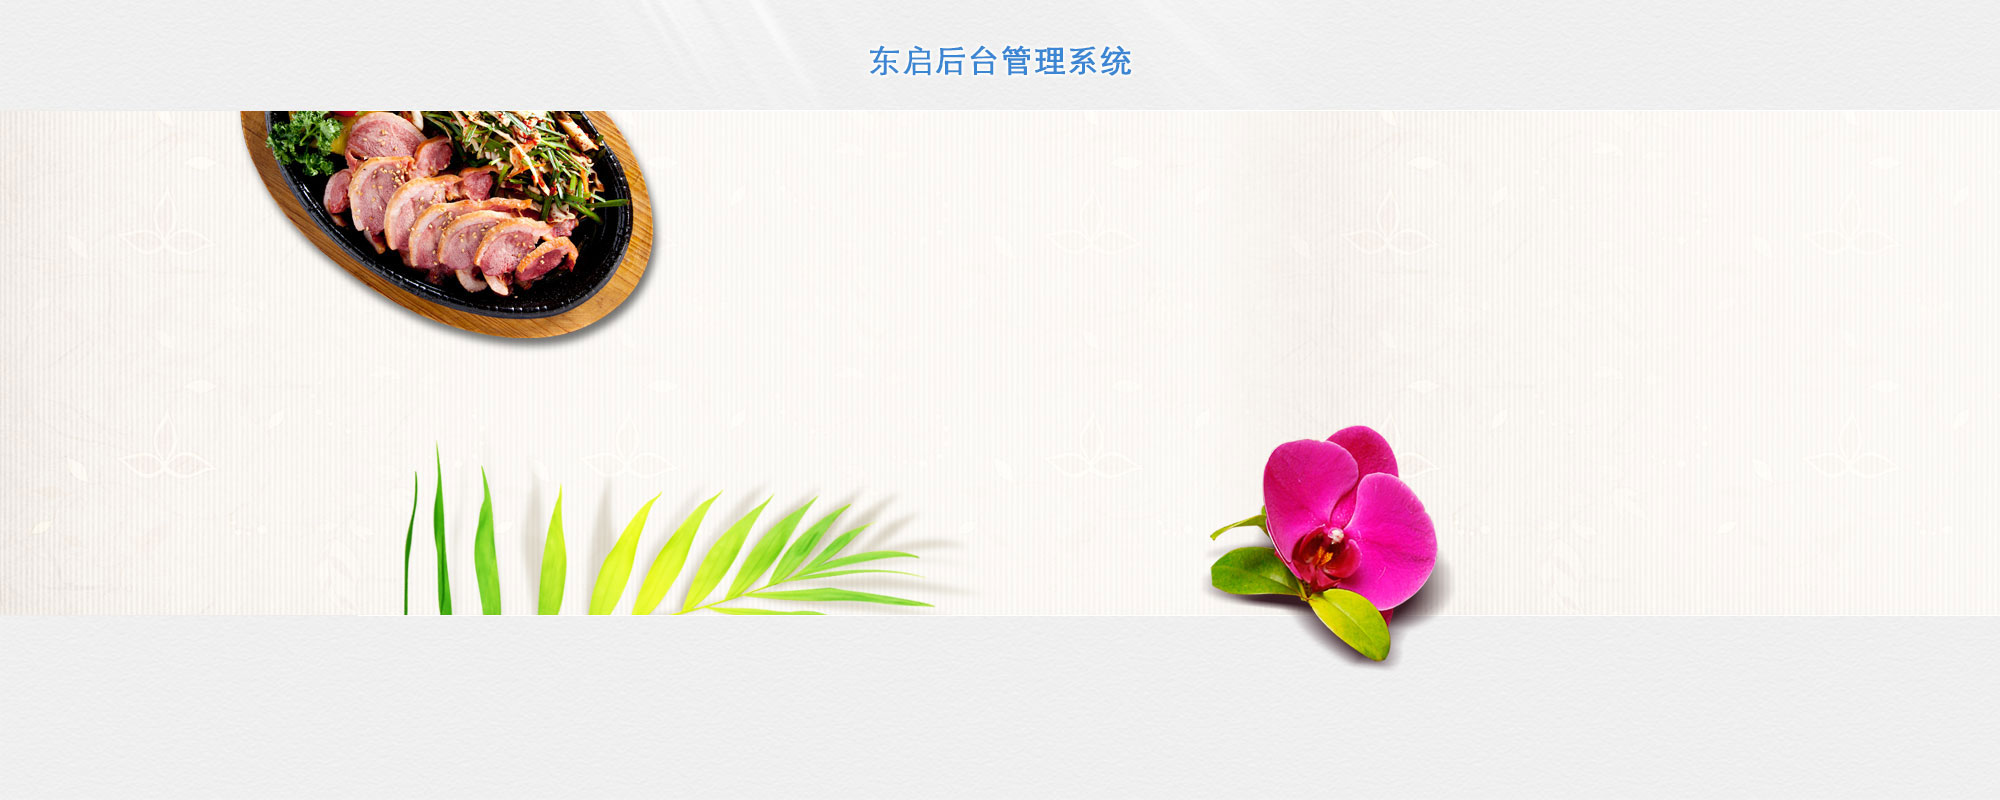
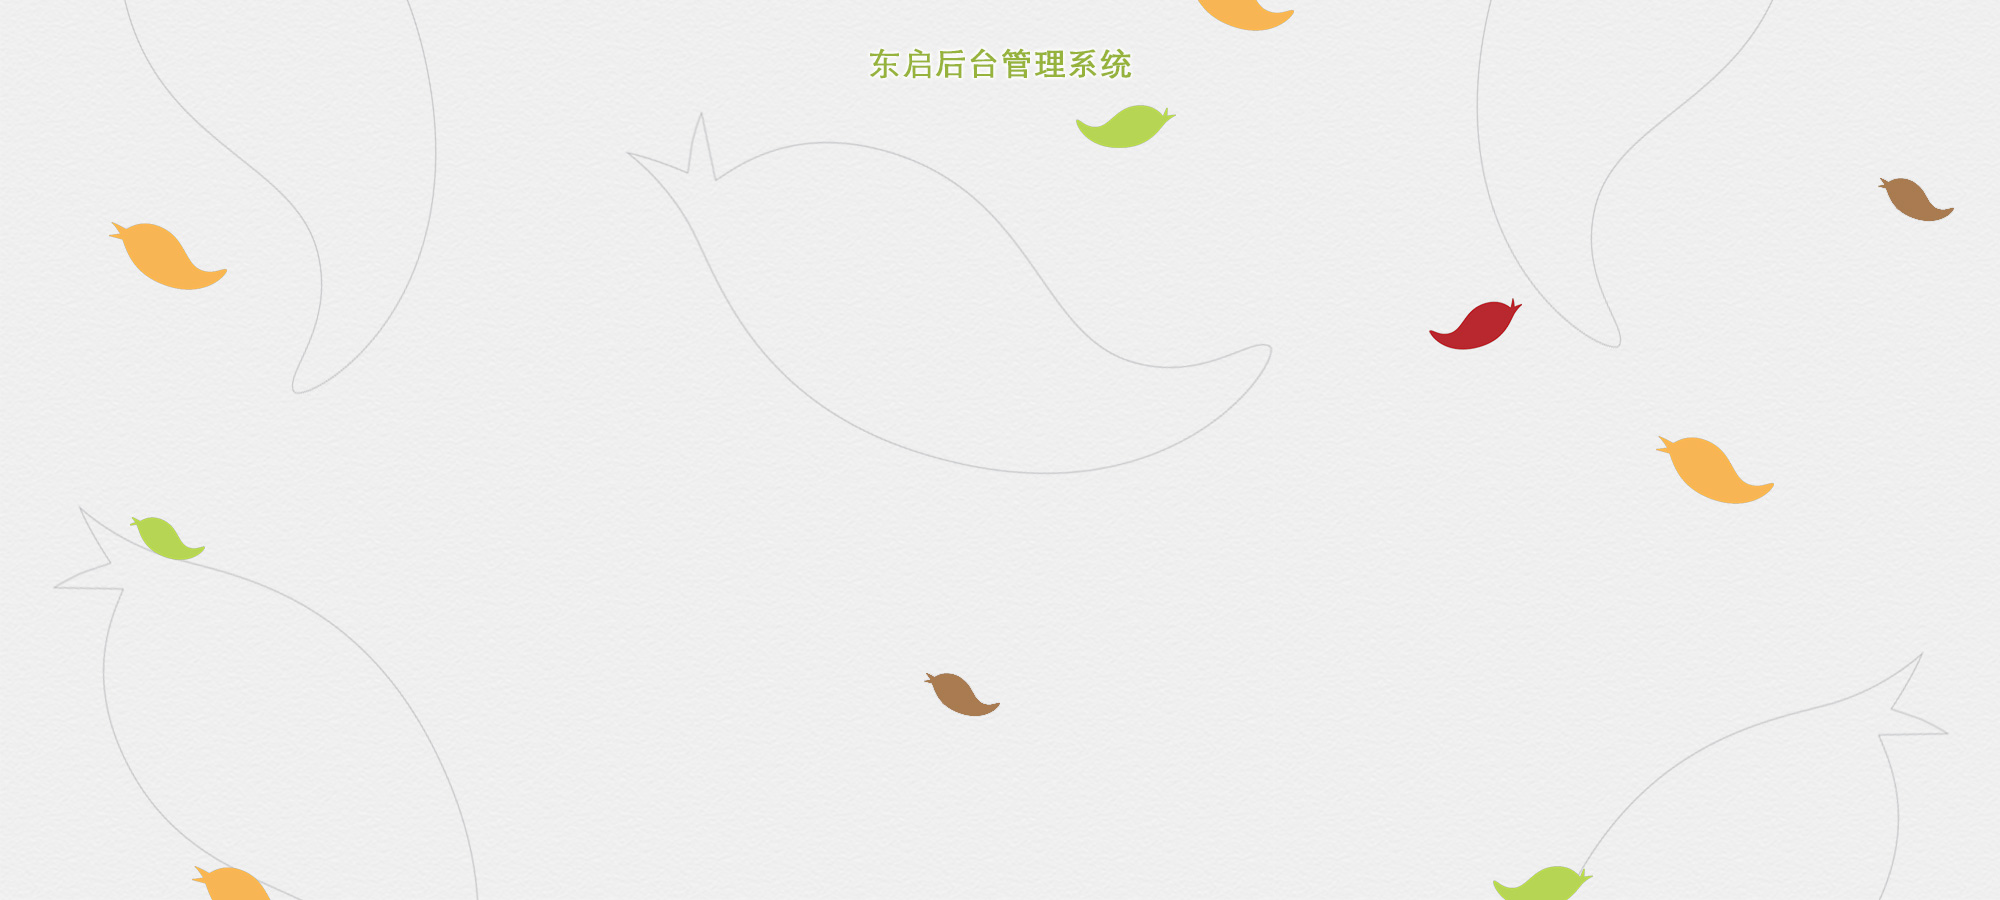
修改了登录界面

diff --git a/static/css/admin/admin.css b/static/css/admin/admin.css
@@ -9,6 +9,7 @@ input.admin_dl {
 	border-radius:6px;
 	width:250px;
 	padding:0 0 0 1.5em;
+	cursor:pointer;
 }
 input.admin_ru {
 	font-weight:normal;
@@ -18,6 +19,9 @@ input.admin_ru {
 	width:130px;
 	background:#fa9223;
 	color:#ffffff;
+	cursor:pointer;
+	border-radius:8px;
+	margin-top:.5em;
 }
 input.admin_fan {
 	font-weight:normal;
@@ -27,6 +31,7 @@ input.admin_fan {
 	width:130px;
 	background:#35aad5;
 	color:#ffffff;
+	cursor:pointer;
 }
 input.admin_pass {
 	background:#FFF;
@@ -44,6 +49,7 @@ input.admin_passw {
 	height:2.2em;
 	border:1px #ee9798 solid;
 	border-radius:6px;
+	cursor:pointer;
 }
 input.admin_save {
 	background:#318fd1;
@@ -54,6 +60,7 @@ input.admin_save {
 	border-radius:6px;
 	width:150px;
 	color:#ffffff;
+	cursor:pointer;
 }
 
 input.admin_delete {
@@ -66,6 +73,7 @@ input.admin_delete {
 	border-radius:6px;
 	width:150px;
 	color:#ffffff;
+	cursor:pointer;
 }
 input.admin_ret {
 	background:#d2d3d4;
@@ -77,11 +85,13 @@ input.admin_ret {
 	border-radius:6px;
 	width:150px;
 	color:#ffffff;
+	cursor:pointer;
 }
 input.datebk {
 	border:1px #e3ecf2 solid;
 	width:150px;
 	margin:0 .365em 0em .365em;
+	cursor:pointer;
 }
 /*=============按钮组====结束=======*/
 
@@ -481,24 +491,25 @@ background: -o-linear-gradient(top, #ddf8aa, #b0d067);  /*Opera 11.10+*/}
 
 /*=============登录===开始========*/
 .admin_dl_box {
-	background:url(../../images/admin/dl.jpg) center top no-repeat;
-	height:800px;
+	background:url('../../images/admin/dl.jpg') center top;
+	background-repeat: no-repeat ;
+	background-size: cover;
+	background-attachment:fixed;
 }
 .admin_dl_a {
-	margin:0 auto;
+	margin:15% auto 0 auto;
 	width:1000px;
-	padding:220px 0 0 0;
+	padding:0 0 0 0;
 }
 .dl_box {
-	float:right;
 	border-radius:8px;
-	width:470px;
-	height:10em;
+	width:450px;
 	border:solid 1px #d2d2d2;
-	border-bottom:#89b850 3px solid;
+	/*border-bottom:#89b850 3px solid;*/
 	/*border-bottom-color:#89b850;*/
-	background:#ffffff;
-	padding:1em 0 0 0;
+	background:#fbfdf6;
+	padding:1.2em 0 1em 0;
+	margin:0 auto;
 }
 .dl_box ul li {
 	color:#4c4c4c;
@@ -532,7 +543,7 @@ background: -o-linear-gradient(top, #ddf8aa, #b0d067);  /*Opera 11.10+*/}
 	text-align:center;
 	}
 .admin_dl_y {
-	padding:0em 1.5em 1.2em 1.5em;
+	padding:.8em .5em 1.2em 3em;
 	text-align:right;
 	font-size:.9em
 }

diff --git a/manager/templates/manager/bonus/snd_bonus_list.html b/manager/templates/manager/bonus/snd_bonus_list.html
@@ -9,19 +9,39 @@
             <div class="award_box_content">
                 <table cellspacing="2" cellpadding="0" class="tab-add" id="tab-color">
                   <tr>
-                    <th width="20%">发送者</th>
-                    <th width="20%">数量</th>
+                    <th width="20%">发送</th>
+                    <th width="15%">时间</th>
                     <th width="20%">类型</th>
-                    <th width="20%">目标</th>
+                    <th width="10%">数量</th>
+                    <th width="15%">目标</th>
                     <th width="20%">操作</th>
                   </tr>
 
                   {% for bonus in bonus_list %}
                   <tr class="table_new_h">
                       <td class="color_a"><span class="table_new_head"><img src="{{bonus.consumer.picture}}" align="absmiddle"></span>{{ bonus.consumer.name }}</td>
-                      <td class="color_b">{{ bonus.bonus_num }}</td>
+
                     <td class="color_b">普通红包</td>
+                    {% ifequal bonus.bonus_type 0 %}
+                    <td class="color_b">普通红包</td>
+                    {% else %}
+                    {% ifequal bonus.bonus_type 1 %}
+                    <td class="color_b">手气红包</td>
+                    {% else %}
+                    {% ifequal bonus.bonus_type 2 %}
+                    <td class="color_b">系统红包</td>
+                    {% endifequal %}
+                    {% endifequal %}
+                    {% endifequal %}
+
+                    <td class="color_b">{{ bonus.bonus_num }}</td>
+
+                    {% if bonus.to_table %}
                     <td class="color_b">{{ bonus.to_table }}</td>
+                    {% else %}
+                    <td class="color_b">所有人</td>
+                    {% endif %}
+
                     <td><img src="/static/images/admin/edit.png" align="absmiddle">
                         <a href="{% url 'bonus_detail' %}?type=send&bonus_id={{ bonus.id_bonus }}" class="color_a" target="mainFrame">查看详情</a>
                     </td>

diff --git a/manager/templates/manager/login.html b/manager/templates/manager/login.html
@@ -13,26 +13,25 @@
 <script type="text/javascript" src="/static/js/jquery.funkyUI.js"></script>
 </head>
 
-<body>
-<div class="admin_dl_box">
+<body class="admin_dl_box">
+<div>
     <div class="admin_dl_a">
         <div class="dl_box">
-            <p>请先登录查看！</p>
 		<form method="post" action="{% url 'login' %}">
 		{% csrf_token %}
 		<table>
 		<tr>
-		    <td class="admin_dl_y">{{ form.username.label_tag }}</td>
-		    <td class="admin_dl_y">{{ form.username }}</td>
+            <td class="admin_dl_y"><label for="id_username">帐号:</label></td>
+            <td><input id="id_username" maxlength="254" name="username" type="text" class="admin_dl dl_yh" /></td>
 		</tr>
 		<tr>
-		    <td class="admin_dl_y">{{ form.password.label_tag }}</td>
-		    <td>{{ form.password }}</td>
+            <td class="admin_dl_y"><label for="id_password">密码:</label></td>
+            <td><input id="id_password" name="password" type="password"  class="admin_dl dl_mm" /></td></td>
 		</tr>
 		<tr>
             <td class="admin_dl_y"></td>
 			<td align="center"> 
-                <input type="submit" class="admin_ru" value="login" />
+                <input type="submit" class="admin_ru" value="登录" />
 			    <input type="hidden" class="admin_fan" name="next" value="{{ next }}" /> 
             </td>
 		</tr>

diff --git a/manager/views.py b/manager/views.py
@@ -51,15 +51,15 @@ def bonus_info(request):
     return render_to_response("manager/bonus/bonus_info.html", locals())
 
 def send_bonus_list(request):
-    bonus_list=SndBonus.objects.filter(consumer__isnull=False).order_by('create_time')
-    return render_to_response("manager/bonus/bonus_list.html", {'title':'发出的红包', 'bonus_list':bonus_list})
+    bonus_list=SndBonus.objects.filter(create_time__date=datetime.datetime.today()).order_by('create_time')
+    return render_to_response("manager/bonus/snd_bonus_list.html", {'title':'发出的红包', 'bonus_list':bonus_list})
 
 def recv_bonus_list(request):
-    bonus_list=RcvBonus.objects.all()
+    bonus_list=RcvBonus.objects.filter(datetime__date=datetime.datetime.today())
     return render_to_response("manager/bonus/recv_bonus_list.html", {'bonus_list':bonus_list})
 
 def flying_bonus_list(request):
-    bonus_list=SndBonus.objects.filter(is_exhausted=False).order_by('create_time')
+    bonus_list=SndBonus.objects.filter(is_exhausted=False, create_time__date=datetime.datetime.today()).order_by('create_time')
     return render_to_response("manager/bonus/flying_bonus_list.html", {'bonus_list':bonus_list})
 
 def create_bonus(request):
